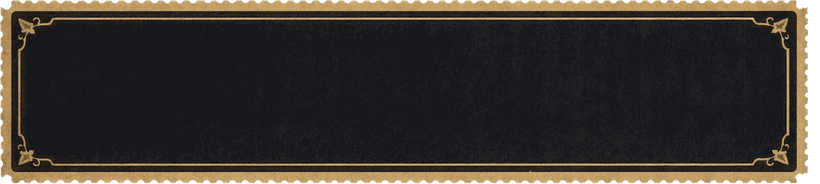
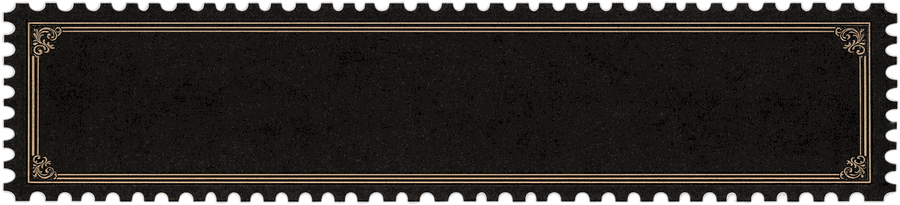
Update DailySpoon

Changed region(s): [[0.0, 0.0, 1.0, 1.0], [0.7317, 0.5978, 0.7622, 0.625]]

diff --git a/src/app/api/article-proxy/route.ts b/src/app/api/article-proxy/route.ts
@@ -844,16 +844,19 @@ export async function GET(req: NextRequest) {
   const articleRecord = await prisma.article
     .findFirst({
       where: { sourceUrl: originalUrl },
-      select: { id: true, favorite: true, sourceExcerpt: true, summary: true, sourceTitle: true }
+      select: { id: true, favorite: true, sourceExcerpt: true, summary: true, sourceTitle: true, headline: true }
     })
     .catch(() => null);
   const articleId = articleRecord?.id ?? null;
   const favorite = articleRecord?.favorite ?? false;
   const fallbackExcerpt = articleRecord?.summary?.trim() || articleRecord?.sourceExcerpt?.trim() || null;
   // Même titre que celui déjà affiché en vignette (accueil, En direct) —
-  // plus parlant que "Reddit indisponible..."/"Article non extrait" quand
-  // on a un vrai texte de repli à montrer en dessous.
-  const fallbackTitle = articleRecord?.sourceTitle?.trim() || null;
+  // headline (réécrit par l'IA, ex. en français) prioritaire sur sourceTitle
+  // (brut, langue d'origine) : même ordre de priorité que partout ailleurs
+  // dans l'appli (EditionView/CategoryColumn affichent headline||sourceTitle)
+  // — sinon on se retrouvait avec un titre anglais au-dessus d'un texte
+  // français, incohérent avec la vignette.
+  const fallbackTitle = articleRecord?.headline?.trim() || articleRecord?.sourceTitle?.trim() || null;
 
   // Le message d'avertissement passe APRÈS le texte récupéré (pas avant) et
   // dans un encadré grisé sur toute la largeur de la zone de texte — même